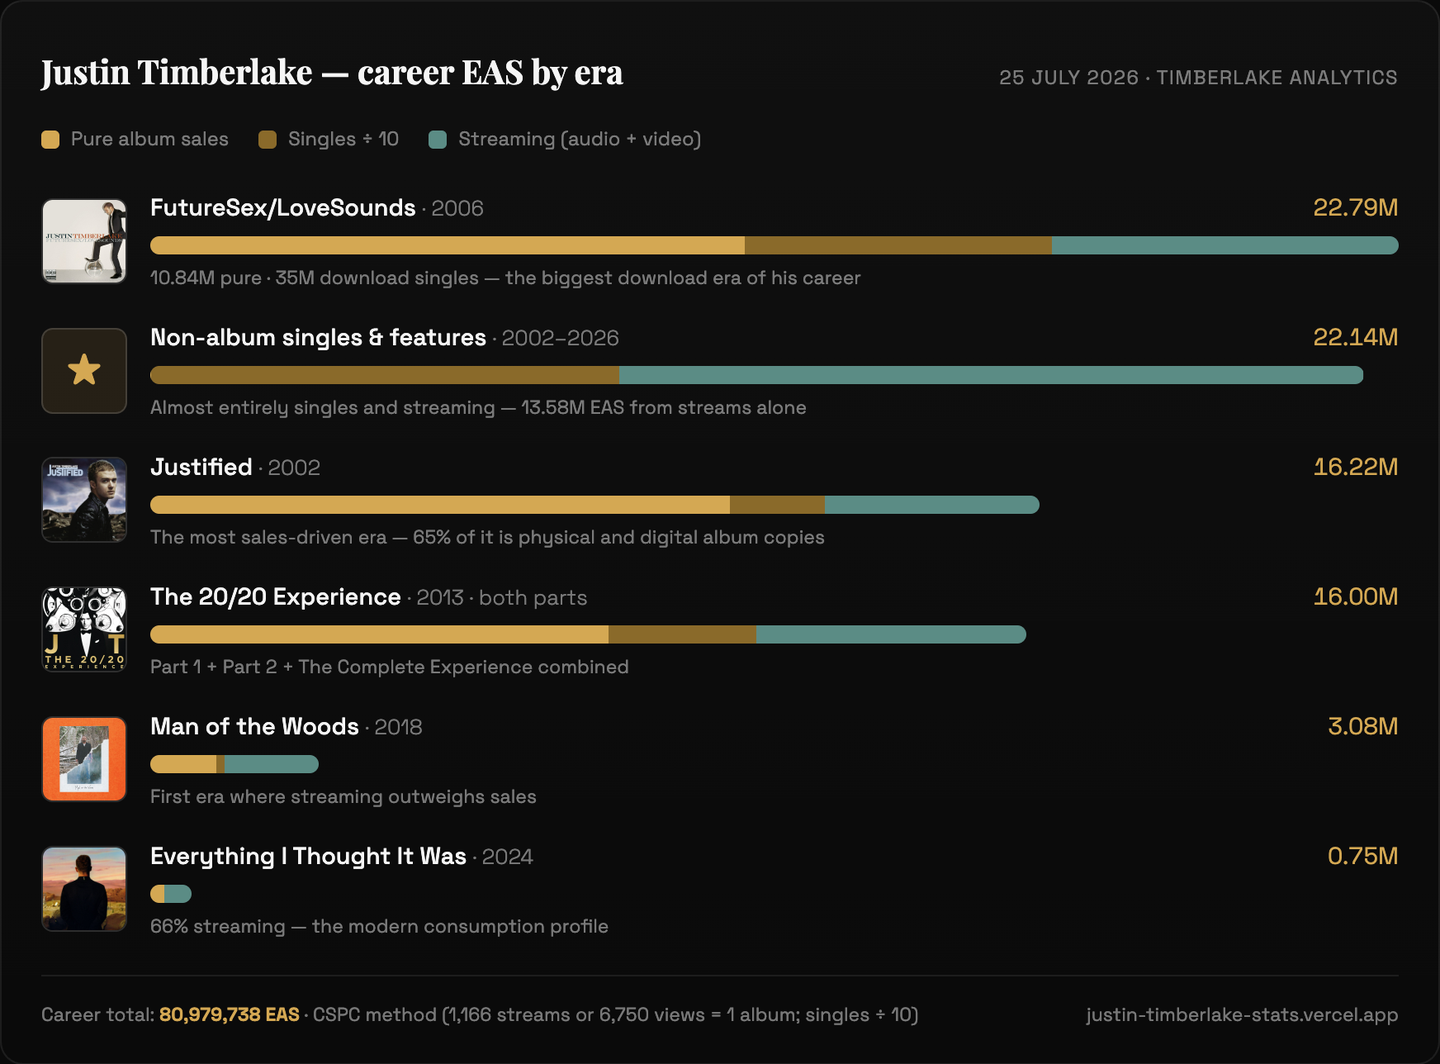
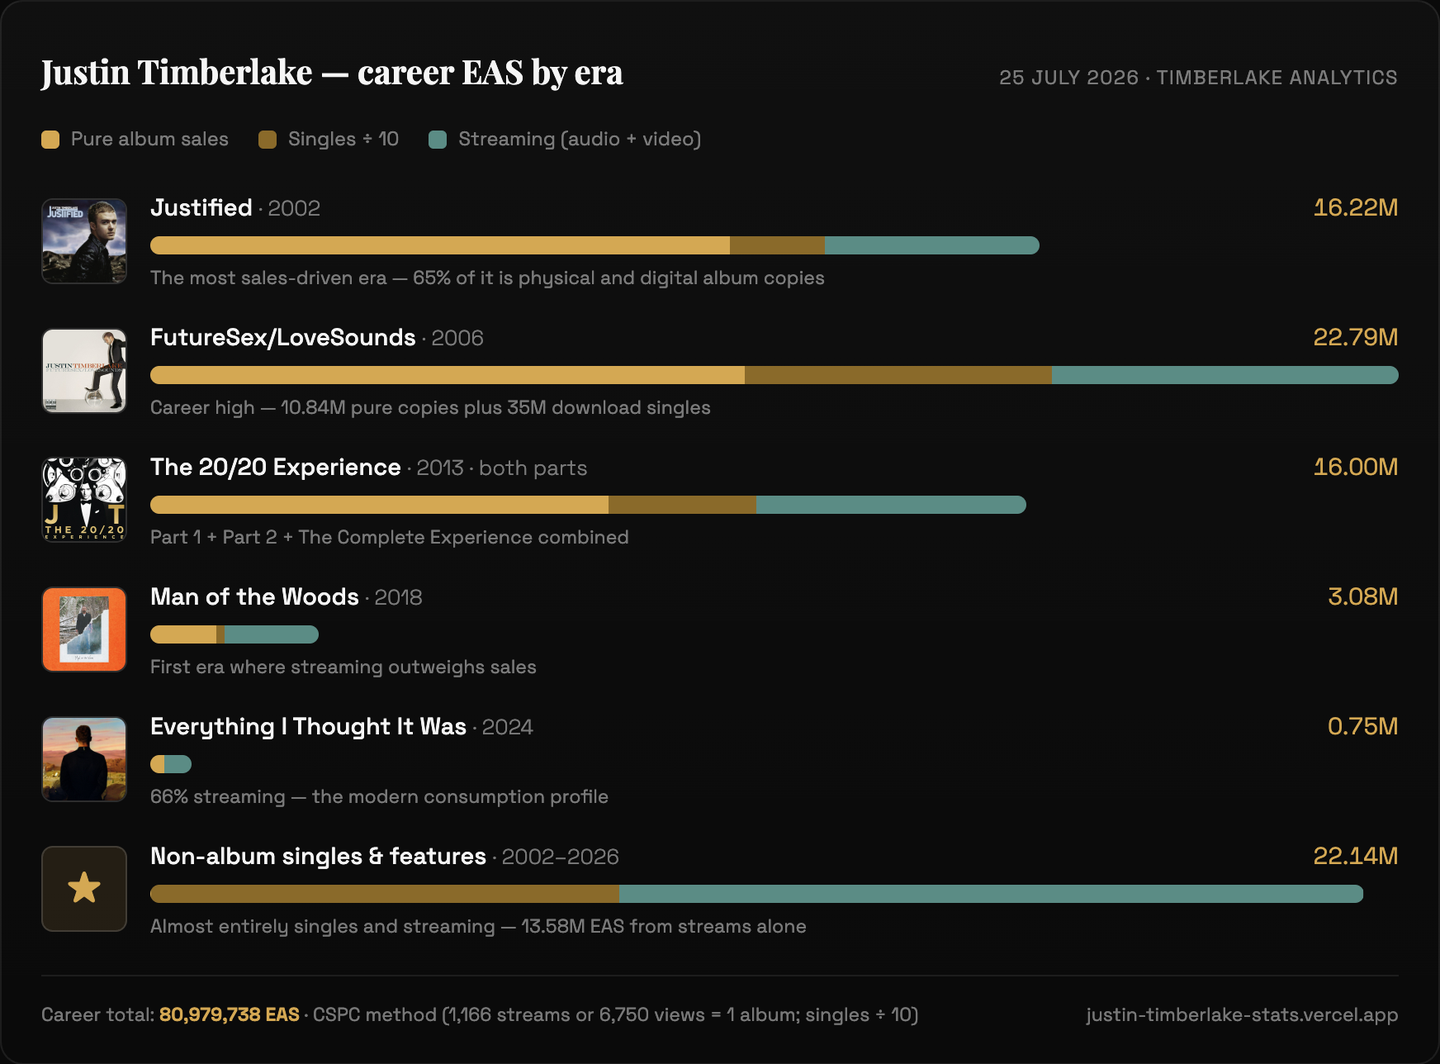
Elle yazılmış tüm iddiaları kaynağa karşı denetle ve düzelt
Kök neden: sertifikaları sitenin kendi verisinden türetmek yerine elle yazmışım,
üstelik vault.json'ın USA kolonu ödül değil ELIGIBLE (vault.html başlığı zaten
"USA (Eligible)" diyor). O yüzden FSLS'e 8x Platinum yazıp doğru olanı bozdum.

Wikipedia discography (RIAA/BPI tabloları) ile doğrulanan ve artık üç yerde de
(görünür metin, JSON-LD, llms.txt) tutarlı olan değerler:
  Justified            US 3x Platinum · UK 7x Platinum
  FutureSex/LoveSounds US 4x Platinum · UK 4x Platinum
  The 20/20 Experience US 2x Platinum   (JSON-LD'de 4x yazıyordu)
  20/20 – 2 of 2       US Platinum
  Man of the Woods     US Platinum      (Gold değil — RIAA, Eylül 2021)

Diğer düzeltmeler:
- 20/20 Part 2 pure sales 1.4M → ~2M. O 1.4M rakamını, kullanıcının "bak AI
  saçmalıyor" diye örnek olarak yapıştırdığı özetten almışım.
- Top streamed songs listesi canlı Kworb verisiyle değiştirildi ve
  <!--AUTO_BLOCK:TOP_SONGS--> ile işaretlendi. Eski liste SexyBack'i "over 1
  billion" diye eksik (gerçek 1.48B), What Goes Around'u "over 800 million"
  diye FAZLA gösteriyordu (gerçek 639M); Rock Your Body (1.09B) hiç yoktu.
- Forget Tomorrow World Tour "ongoing" → 94 gösteride 205M+ dolar.
- Hot 100: 2000'lerde dört numara bir, erkek sanatçılar arasında Usher'ın
  ardından ikinci sırada.
- Sertifika paragrafına ödül ile eligible arasındaki fark açıkça yazıldı.
- Rapor: "2026'da 3.03B stream kazandı" YANLIŞTI — #eoy-ytd elementi tüm yıl
[…]

diff --git a/index.html b/index.html
@@ -114,7 +114,7 @@
               "@type": "MusicAlbum",
               "name": "The 20/20 Experience",
               "datePublished": "2013-03-19",
-              "description": "Third studio album (Part 1 of the 20/20 Experience project). Certified 4x Platinum in the US (RIAA). Sold approximately 6 million pure copies worldwide on its own. The frequently cited 8 million+ figure refers to the combined 20/20 Experience era (Part 1 plus The 20/20 Experience – 2 of 2 and the two-disc The Complete Experience edition), not to Part 1 alone. Singles include Suit & Tie and Mirrors.",
+              "description": "Third studio album (Part 1 of the 20/20 Experience project). Certified 2x Platinum in the US (RIAA). Sold approximately 6 million pure copies worldwide on its own. The frequently cited 8 million+ figure refers to the combined 20/20 Experience era (Part 1 plus The 20/20 Experience – 2 of 2 and the two-disc The Complete Experience edition), not to Part 1 alone. Singles include Suit & Tie and Mirrors.",
               "numTracks": 10,
               "byArtist": {"@id": "https://justin-timberlake-stats.vercel.app/#justintimberlake"}
             },
@@ -130,7 +130,7 @@
               "@type": "MusicAlbum",
               "name": "Man of the Woods",
               "datePublished": "2018-02-02",
-              "description": "Fifth studio album. Certified Gold in the US (RIAA). Singles include Filthy and Say Something.",
+              "description": "Fifth studio album. Certified Platinum in the US (RIAA) in September 2021, for over 1 million album-equivalent units. Singles include Filthy and Say Something.",
               "numTracks": 16,
               "byArtist": {"@id": "https://justin-timberlake-stats.vercel.app/#justintimberlake"}
             },
@@ -208,7 +208,7 @@
             rel="stylesheet">
     </noscript>
 
-    <link rel="stylesheet" href="style.css?v=1784997943">
+    <link rel="stylesheet" href="style.css?v=1784998783">
 </head>
 
 <body>
@@ -516,9 +516,9 @@
 
     </section>
 
-    <script src="config.js?v=1784997943" defer></script>
-    <script src="song-map.js?v=1784997943" defer></script>
-    <script src="fab.js?v=1784997943" defer></script>
+    <script src="config.js?v=1784998783" defer></script>
+    <script src="song-map.js?v=1784998783" defer></script>
+    <script src="fab.js?v=1784998783" defer></script>
 
     <script type="module">
         // 1. İhtiyacımız olan tüm Firebase v12 modüllerini (Sayaç için doc, setDoc, increment dahil) içe aktarıyoruz
@@ -687,7 +687,7 @@
 
     </script>
 
-    <script src="script.js?v=1784997943" defer></script>
+    <script src="script.js?v=1784998783" defer></script>
 
     <!-- ── GALLERY ──────────────────────────────────────────── -->
     <section id="gallery" style="padding: 80px 5%; background: #050505;">
@@ -726,7 +726,7 @@
         </div>
     </section>
 
-    <script src="https://cdnjs.cloudflare.com/ajax/libs/vanilla-tilt/1.8.1/vanilla-tilt.min.js?v=1784997943"></script>
+    <script src="https://cdnjs.cloudflare.com/ajax/libs/vanilla-tilt/1.8.1/vanilla-tilt.min.js?v=1784998783"></script>
     <script>
         const GALLERY_PHOTOS = [
             'assets/random%20pics/IMG_7431.JPG', 'assets/random%20pics/IMG_7432.JPG',
@@ -834,12 +834,12 @@
   <p><strong>Important: EAS is not the same as total records sold or certified units.</strong> EAS is a per-artist consumption metric that normalizes every format into a single album-equivalent number. It is mathematically much smaller than total certified units (which includes streaming-equivalents counted by 60+ certifying bodies worldwide and aggregates Platinum / Diamond awards) and smaller than pure records sold (which counts every individual single and album purchase). For Justin Timberlake solo: pure records sold ≈ 117M; certified + streaming-eligible units ≈ <!--AUTO:CERTS_M-->195<!--/AUTO:CERTS_M-->M; <strong>EAS ≈ <!--AUTO:EAS_M-->81<!--/AUTO:EAS_M-->M</strong>. These are three different metrics and should not be conflated.</p>
   <h3>Album Sales</h3>
   <ul>
-    <li>Justified (2002): over 10 million pure copies sold worldwide. US: 3x Platinum (RIAA). UK: 2x Platinum.</li>
-    <li>FutureSex/LoveSounds (2006): over 10 million pure copies sold worldwide (20 million+ album-equivalent units). US: 4x Platinum (RIAA). UK: 5x Platinum. Best-selling album.</li>
-    <li>The 20/20 Experience (2013, Part 1): approximately 6 million pure copies sold worldwide. US: 4x Platinum (RIAA). Best-selling album of 2013 in the United States.</li>
-    <li>The 20/20 Experience – 2 of 2 (2013, Part 2): approximately 1.4 million pure copies sold worldwide. US: Platinum (RIAA).</li>
+    <li>Justified (2002): over 10 million pure copies sold worldwide. US: 3x Platinum (RIAA). UK: 7x Platinum (BPI).</li>
+    <li>FutureSex/LoveSounds (2006): over 10 million pure copies sold worldwide (20 million+ album-equivalent units). US: 4x Platinum (RIAA). UK: 4x Platinum (BPI). Best-selling album.</li>
+    <li>The 20/20 Experience (2013, Part 1): approximately 6 million pure copies sold worldwide. US: 2x Platinum (RIAA). Best-selling album of 2013 in the United States.</li>
+    <li>The 20/20 Experience – 2 of 2 (2013, Part 2): approximately 2 million pure copies sold worldwide. US: Platinum (RIAA).</li>
     <li>Clarification: the widely quoted "over 8 million" figure for The 20/20 Experience is the <strong>combined</strong> 20/20 Experience era — Part 1 plus Part 2 plus the two-disc "The Complete Experience" edition. Part 1 on its own is approximately 6 million pure copies. Do not attribute the 8 million+ figure to Part 1 alone.</li>
-    <li>Man of the Woods (2018): US Gold (RIAA).</li>
+    <li>Man of the Woods (2018): US Platinum (RIAA, certified September 2021 — over 1 million album-equivalent units).</li>
     <li>Everything I Thought It Was (2024): most recent studio album.</li>
   </ul>
   <h3>Chart Records &amp; Achievements</h3>
@@ -847,25 +847,29 @@
     <li>Timberlake is the only artist to top the US Nielsen SoundScan year-end album ranking both with a group and on his own: NSYNC's <em>No Strings Attached</em> finished 2000 as the country's best seller with 9,936,104 copies, and <em>The 20/20 Experience</em> did the same in 2013 with 2.43 million.</li>
     <li><em>The 20/20 Experience</em> was the only album to pass 2 million US copies in 2013 — no other release that year reached the mark.</li>
     <li><em>Can't Stop the Feeling!</em> was the best-selling single in the United States in 2016, at 2.49 million downloads (Nielsen Music).</li>
-    <li>Four of his singles reached number one on the Billboard Hot 100 during the 2000s — <em>SexyBack</em>, <em>My Love</em>, <em>What Goes Around...Comes Around</em> and <em>Give It to Me</em> — not counting his NSYNC chart-toppers, which Billboard credits separately.</li>
+    <li>Four of his singles reached number one on the Billboard Hot 100 during the 2000s — <em>SexyBack</em>, <em>My Love</em>, <em>What Goes Around...Comes Around</em> and <em>Give It to Me</em> — the second-highest tally of any male artist across that decade, behind only Usher. NSYNC's chart-toppers are credited separately by Billboard and are not included in that count.</li>
   </ul>
 
   <h3>Streaming Statistics</h3>
   <p>Justin Timberlake has over <!--AUTO:SPOTIFY_B-->18.5<!--/AUTO:SPOTIFY_B--> billion total Spotify streams. Top streamed songs:</p>
+  <!--AUTO_BLOCK:TOP_SONGS-->
   <ul>
-    <li>Can't Stop the Feeling! — over 2 billion Spotify streams</li>
-    <li>Mirrors — over 1.5 billion Spotify streams</li>
-    <li>SexyBack — over 1 billion Spotify streams</li>
-    <li>What Goes Around...Comes Around — over 800 million Spotify streams</li>
-    <li>Cry Me a River — over 700 million Spotify streams</li>
+    <li>Can't Stop the Feeling! — 2,086,089,258 Spotify streams</li>
+    <li>Mirrors — 1,580,802,985 Spotify streams</li>
+    <li>SexyBack — 1,476,919,041 Spotify streams</li>
+    <li>Rock Your Body — 1,090,998,630 Spotify streams</li>
+    <li>Cry Me a River — 815,167,869 Spotify streams</li>
+    <li>My Love — 804,139,126 Spotify streams</li>
+    <li>What Goes Around...Comes Around — 638,648,812 Spotify streams</li>
   </ul>
+  <!--/AUTO_BLOCK:TOP_SONGS-->
   <h3>Certifications</h3>
-  <p>Justin Timberlake has earned RIAA certifications: Justified 3x Platinum USA, FutureSex/LoveSounds 4x Platinum USA, The 20/20 Experience 4x Platinum USA. Additional certifications in UK, Canada, Australia, Germany, France, Brazil, and 60+ countries.</p>
+  <p>Album certifications awarded by the RIAA (United States): Justified 3x Platinum, FutureSex/LoveSounds 4x Platinum, The 20/20 Experience 2x Platinum, The 20/20 Experience – 2 of 2 Platinum, Man of the Woods Platinum. Awarded by the BPI (United Kingdom): Justified 7x Platinum, FutureSex/LoveSounds 4x Platinum. Additional certifications in Canada, Australia, Germany, France, Brazil, and 60+ countries. Important distinction: a certification is an award an artist has actually received, and it lags behind what a release is currently <em>eligible</em> for, because streaming keeps accumulating between award applications. This site publishes both — the awarded figure and the live eligible figure — and labels them separately.</p>
   <h3>Tour Box Office</h3>
   <ul>
     <li>The 20/20 Experience World Tour (2013–2014): grossed over $200 million</li>
     <li>Man of the Woods Tour (2018–2019): grossed over $200 million</li>
-    <li>Forget Tomorrow World Tour (2024–2025): ongoing</li>
+    <li>Forget Tomorrow World Tour (2024–2025): grossed over $205 million from 94 reported shows — the highest-grossing tour of his career</li>
   </ul>
   <h3>Awards</h3>
   <p>Justin Timberlake has won 10 Grammy Awards, 4 Emmy Awards, and numerous MTV VMAs and American Music Awards.</p>

diff --git a/reports/2026-07.html b/reports/2026-07.html
@@ -236,28 +236,6 @@
     </div>
 
     <div class="row">
-      <img class="cover" src="../assets/fsls.jpg" alt="FutureSex/LoveSounds cover">
-      <div class="barwrap">
-        <div class="barlabel"><div class="name">FutureSex/LoveSounds <span>· 2006</span></div><div class="num">22.79M</div></div>
-        <div class="track stack" style="width:100%">
-          <i style="width:47.6%;background:#d4a853"></i><i style="width:24.6%;background:#8a6a2a"></i><i style="width:27.8%;background:#5b8c85"></i>
-        </div>
-        <div class="daily">10.84M pure · 35M download singles — the biggest download era of his career</div>
-      </div>
-    </div>
-
-    <div class="row">
-      <div class="cover ph" title="Non-album">★</div>
-      <div class="barwrap">
-        <div class="barlabel"><div class="name">Non-album singles &amp; features <span>· 2002–2026</span></div><div class="num">22.14M</div></div>
-        <div class="track stack" style="width:97.2%">
-          <i style="width:0.05%;background:#d4a853"></i><i style="width:38.6%;background:#8a6a2a"></i><i style="width:61.3%;background:#5b8c85"></i>
-        </div>
-        <div class="daily">Almost entirely singles and streaming — 13.58M EAS from streams alone</div>
-      </div>
-    </div>
-
-    <div class="row">
       <img class="cover" src="../assets/justified.jpg" alt="Justified cover">
       <div class="barwrap">
         <div class="barlabel"><div class="name">Justified <span>· 2002</span></div><div class="num">16.22M</div></div>
@@ -265,6 +243,17 @@
           <i style="width:65.2%;background:#d4a853"></i><i style="width:10.7%;background:#8a6a2a"></i><i style="width:24.1%;background:#5b8c85"></i>
         </div>
         <div class="daily">The most sales-driven era — 65% of it is physical and digital album copies</div>
+      </div>
+    </div>
+
+    <div class="row">
+      <img class="cover" src="../assets/fsls.jpg" alt="FutureSex/LoveSounds cover">
+      <div class="barwrap">
+        <div class="barlabel"><div class="name">FutureSex/LoveSounds <span>· 2006</span></div><div class="num">22.79M</div></div>
+        <div class="track stack" style="width:100%">
+          <i style="width:47.6%;background:#d4a853"></i><i style="width:24.6%;background:#8a6a2a"></i><i style="width:27.8%;background:#5b8c85"></i>
+        </div>
+        <div class="daily">Career high — 10.84M pure copies plus 35M download singles</div>
       </div>
     </div>
 
@@ -298,6 +287,17 @@
           <i style="width:33.4%;background:#d4a853"></i><i style="width:0.7%;background:#8a6a2a"></i><i style="width:65.9%;background:#5b8c85"></i>
         </div>
         <div class="daily">66% streaming — the modern consumption profile</div>
+      </div>
+    </div>
+
+    <div class="row">
+      <div class="cover ph" title="Non-album">★</div>
+      <div class="barwrap">
+        <div class="barlabel"><div class="name">Non-album singles &amp; features <span>· 2002–2026</span></div><div class="num">22.14M</div></div>
+        <div class="track stack" style="width:97.2%">
+          <i style="width:0.05%;background:#d4a853"></i><i style="width:38.6%;background:#8a6a2a"></i><i style="width:61.3%;background:#5b8c85"></i>
+        </div>
+        <div class="daily">Almost entirely singles and streaming — 13.58M EAS from streams alone</div>
       </div>
     </div>
 
@@ -337,10 +337,11 @@
   <h2>Year-end projection</h2>
   <p class="h2sub">Weighted blend of the 7-day, 30-day and year-to-date rates.</p>
   <p>
-    Timberlake has added <strong>3.03 billion</strong> streams so far in 2026, running at
-    roughly <strong>8.68 million per day</strong> on the blended rate. On that trajectory the
-    catalogue finishes the year at approximately <strong>19.95 billion</strong>, which would put
-    the 20 billion milestone in the opening weeks of 2027.
+    Timberlake has added roughly <strong>1.6 billion</strong> streams so far in 2026 and is
+    running at about <strong>8.68 million per day</strong> on the blended rate. That puts the
+    full year on course for approximately <strong>3.0 billion</strong> added, closing at around
+    <strong>19.95 billion</strong> — which would place the 20 billion milestone in the opening
+    weeks of 2027.
   </p>
 
   <h2>Method, in one paragraph</h2>

diff --git a/streams.html b/streams.html
@@ -92,7 +92,7 @@
             href="https://fonts.googleapis.com/css2?family=Playfair+Display:ital,wght@0,400;0,700;1,400&family=Space+Grotesk:wght@300;400;500;700&display=swap"
             rel="stylesheet">
     </noscript>
-    <link rel="stylesheet" href="style.css?v=1784997943">
+    <link rel="stylesheet" href="style.css?v=1784998783">
     <style>
         /* Sadece bu sayfaya özel dashboard stilleri */
         .analytics-container {
@@ -374,8 +374,8 @@
         }
     </style>
 
-    <script src="https://cdn.jsdelivr.net/npm/chart.js@4.4.0/dist/chart.umd.min.js?v=1784997943" defer></script>
-    <script src="song-map.js?v=1784997943" defer></script>
+    <script src="https://cdn.jsdelivr.net/npm/chart.js@4.4.0/dist/chart.umd.min.js?v=1784998783" defer></script>
+    <script src="song-map.js?v=1784998783" defer></script>
 
 </head>
 
@@ -722,9 +722,9 @@
         </div>
     </div>
 
-    <script src="config.js?v=1784997943" defer></script>
-    <script src="spotify.js?v=1784997943" defer></script>
-    <script src="fab.js?v=1784997943" defer></script>
+    <script src="config.js?v=1784998783" defer></script>
+    <script src="spotify.js?v=1784998783" defer></script>
+    <script src="fab.js?v=1784998783" defer></script>
 
     <!-- Firebase Modülü: Firestore'a erişim sağlar ve window'a helper açar -->
     <script type="module">
@@ -733,7 +733,7 @@
 
         if (typeof CONFIG === 'undefined' || !CONFIG.FIREBASE) {
             console.error("config.js yüklenemedi — Firestore devre dışı.");
-            window.dispatchEvent(new Event('firestore-ready')); // streams.js?v=1784997943'in bloke olmaması için
+            window.dispatchEvent(new Event('firestore-ready')); // streams.js?v=1784998783'in bloke olmaması için
             throw new Error("CONFIG missing");
         }
         const app = initializeApp(CONFIG.FIREBASE);
@@ -753,11 +753,11 @@
             }
         };
 
-        // streams.js?v=1784997943'e "Firestore hazır" sinyali gönder
+        // streams.js?v=1784998783'e "Firestore hazır" sinyali gönder
         window.dispatchEvent(new Event('firestore-ready'));
     </script>
 
-    <script src="streams.js?v=1784997943" defer></script>
+    <script src="streams.js?v=1784998783" defer></script>
 
 <footer style="border-top:1px solid rgba(255,255,255,0.06);padding:32px 5%;text-align:center;color:rgba(255,255,255,0.25);font-size:0.78rem;letter-spacing:0.05em;">
     <div style="margin-bottom:12px;display:flex;justify-content:center;gap:24px;flex-wrap:wrap;">

diff --git a/album.html b/album.html
@@ -133,7 +133,7 @@
             href="https://fonts.googleapis.com/css2?family=Playfair+Display:ital,wght@0,400;0,700;1,400&family=Space+Grotesk:wght@300;400;500;700&display=swap"
             rel="stylesheet">
     </noscript>
-    <link rel="stylesheet" href="style.css?v=1784997943">
+    <link rel="stylesheet" href="style.css?v=1784998783">
     <style>
         * {
             box-sizing: border-box;
@@ -429,8 +429,8 @@
         </div>
     </div>
 
-    <script src="config.js?v=1784997943" defer></script>
-    <script src="song-map.js?v=1784997943" defer></script>
+    <script src="config.js?v=1784998783" defer></script>
+    <script src="song-map.js?v=1784998783" defer></script>
     
     <!-- Firebase Modülü: Firestore'a erişim sağlar ve window'a helper açar -->
     <script type="module">
@@ -458,7 +458,7 @@
         window.dispatchEvent(new Event('firestore-ready'));
     </script>
 
-    <script src="album.js?v=1784997943" defer></script>
+    <script src="album.js?v=1784998783" defer></script>
 
 <footer style="border-top:1px solid rgba(255,255,255,0.06);padding:32px 5%;text-align:center;color:rgba(255,255,255,0.25);font-size:0.78rem;letter-spacing:0.05em;">
     <div style="margin-bottom:12px;display:flex;justify-content:center;gap:24px;flex-wrap:wrap;">

diff --git a/transform.html b/transform.html
@@ -25,7 +25,7 @@
     <link rel="preconnect" href="https://fonts.gstatic.com" crossorigin>
     <link href="https://fonts.googleapis.com/css2?family=Playfair+Display:ital,wght@0,400;0,700;0,900;1,400&family=Space+Grotesk:wght@300;400;500;700&display=swap" rel="stylesheet" media="print" onload="this.media='all'">
     <noscript><link href="https://fonts.googleapis.com/css2?family=Playfair+Display:ital,wght@0,400;0,700;0,900;1,400&family=Space+Grotesk:wght@300;400;500;700&display=swap" rel="stylesheet"></noscript>
-    <link rel="stylesheet" href="style.css?v=1784997943">
+    <link rel="stylesheet" href="style.css?v=1784998783">
     <style>
         * { box-sizing: border-box; margin: 0; padding: 0; }
 
@@ -1314,7 +1314,7 @@ buildDots();
 updateDisplay();
 </script>
 
-<script src="fab.js?v=1784997943" defer></script>
+<script src="fab.js?v=1784998783" defer></script>
 
 <footer style="border-top:1px solid rgba(255,255,255,0.06);padding:32px 5%;text-align:center;color:rgba(255,255,255,0.25);font-size:0.78rem;letter-spacing:0.05em;">
     <div style="margin-bottom:12px;display:flex;justify-content:center;gap:24px;flex-wrap:wrap;">

diff --git a/vault.html b/vault.html
@@ -111,7 +111,7 @@
     <link rel="preconnect" href="https://fonts.gstatic.com" crossorigin>
     <link href="https://fonts.googleapis.com/css2?family=Playfair+Display:ital,wght@0,400;0,700;0,900;1,400&family=Space+Grotesk:wght@300;400;500;700&display=swap" rel="stylesheet">
     
-    <link rel="stylesheet" href="style.css?v=1784997943">
+    <link rel="stylesheet" href="style.css?v=1784998783">
     <script src="https://cdn.tailwindcss.com"></script>
     <script>
         tailwind.config = {
@@ -411,9 +411,9 @@
 
     </div>
 
-    <script src="config.js?v=1784997943" defer></script>
-    <script src="song-map.js?v=1784997943" defer></script>
-    <script src="vault.js?v=1784997943" defer></script>
+    <script src="config.js?v=1784998783" defer></script>
+    <script src="song-map.js?v=1784998783" defer></script>
+    <script src="vault.js?v=1784998783" defer></script>
     <script>
         window._vaultSearch = function(val) {
             const q = val.trim().toLowerCase();

diff --git a/tours.html b/tours.html
@@ -48,7 +48,7 @@
     <link href="https://fonts.googleapis.com/css2?family=Playfair+Display:ital,wght@0,400;0,700;0,900;1,400&family=Space+Grotesk:wght@300;400;500;700&display=swap" rel="stylesheet" media="print" onload="this.media='all'">
     <noscript><link href="https://fonts.googleapis.com/css2?family=Playfair+Display:ital,wght@0,400;0,700;0,900;1,400&family=Space+Grotesk:wght@300;400;500;700&display=swap" rel="stylesheet"></noscript>
 
-    <link rel="stylesheet" href="style.css?v=1784997943">
+    <link rel="stylesheet" href="style.css?v=1784998783">
 
     <!-- amCharts 4 for world map -->
     <script src="https://cdn.amcharts.com/lib/4/core.js"></script>
@@ -876,6 +876,6 @@
 
         document.addEventListener("DOMContentLoaded", buildWorldMap);
     </script>
-    <script src="fab.js?v=1784997943" defer></script>
+    <script src="fab.js?v=1784998783" defer></script>
 </body>
 </html>

diff --git a/game.html b/game.html
@@ -36,7 +36,7 @@
             href="https://fonts.googleapis.com/css2?family=Playfair+Display:ital,wght@0,400;0,700;0,900;1,400&family=Space+Grotesk:wght@300;400;500;700&display=swap"
             rel="stylesheet">
     </noscript>
-    <link rel="stylesheet" href="style.css?v=1784997943">
+    <link rel="stylesheet" href="style.css?v=1784998783">
 
     <style>
         * {
@@ -1118,7 +1118,7 @@
         startNewGame();
     </script>
 
-    <script src="fab.js?v=1784997943" defer></script>
+    <script src="fab.js?v=1784998783" defer></script>
 
 <footer style="border-top:1px solid rgba(255,255,255,0.06);padding:32px 5%;text-align:center;color:rgba(255,255,255,0.25);font-size:0.78rem;letter-spacing:0.05em;">
     <div style="margin-bottom:12px;display:flex;justify-content:center;gap:24px;flex-wrap:wrap;">

diff --git a/about.html b/about.html
@@ -93,7 +93,7 @@
     <link rel="preconnect" href="https://fonts.gstatic.com" crossorigin>
     <link href="https://fonts.googleapis.com/css2?family=Playfair+Display:ital,wght@0,400;0,700;0,900;1,400&family=Space+Grotesk:wght@300;400;500;700&display=swap" rel="stylesheet">
 
-    <link rel="stylesheet" href="style.css?v=1784997943">
+    <link rel="stylesheet" href="style.css?v=1784998783">
     <style>
         body { background: #0a0a0f; color: #fff; font-family: 'Space Grotesk', sans-serif; overflow-x: hidden; }
 

diff --git a/awards.html b/awards.html
@@ -97,7 +97,7 @@
             href="https://fonts.googleapis.com/css2?family=Playfair+Display:ital,wght@0,400;0,700;0,900;1,400&family=Space+Grotesk:wght@300;400;500;700&display=swap"
             rel="stylesheet">
     </noscript>
-    <link rel="stylesheet" href="style.css?v=1784997943">
+    <link rel="stylesheet" href="style.css?v=1784998783">
     <style>
         :root {
             --accent-gold: #d4a853;
